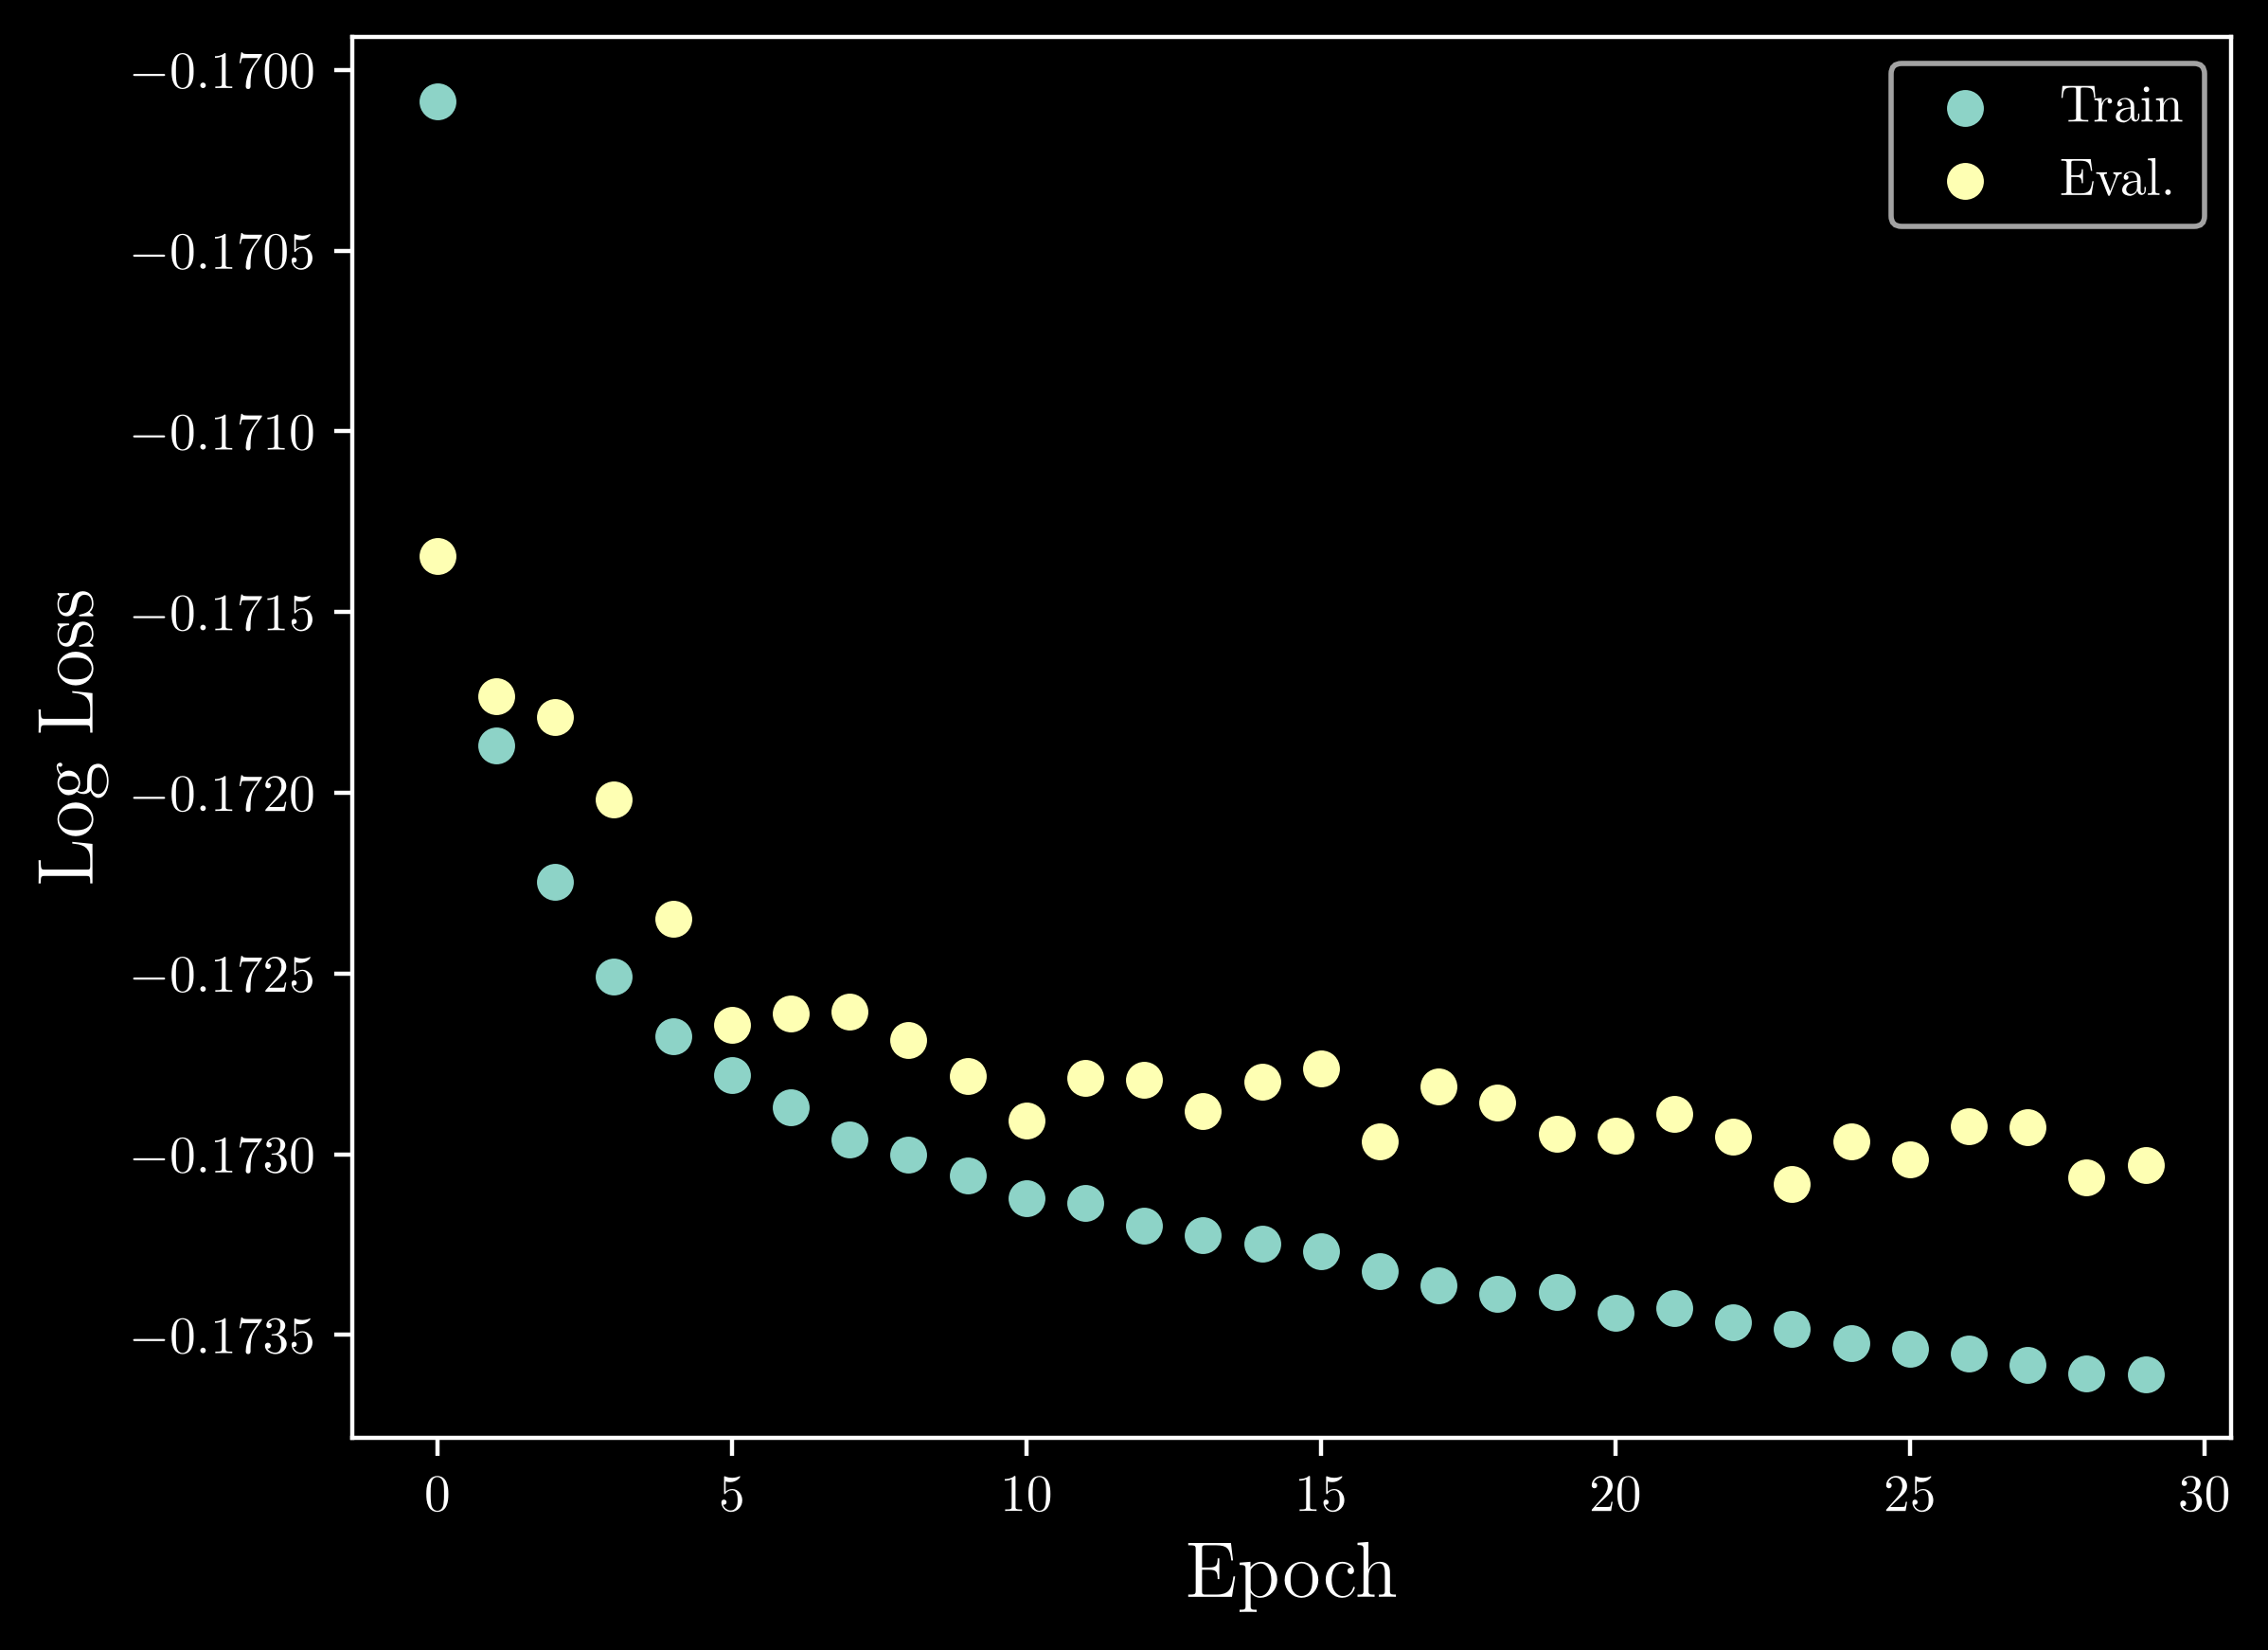
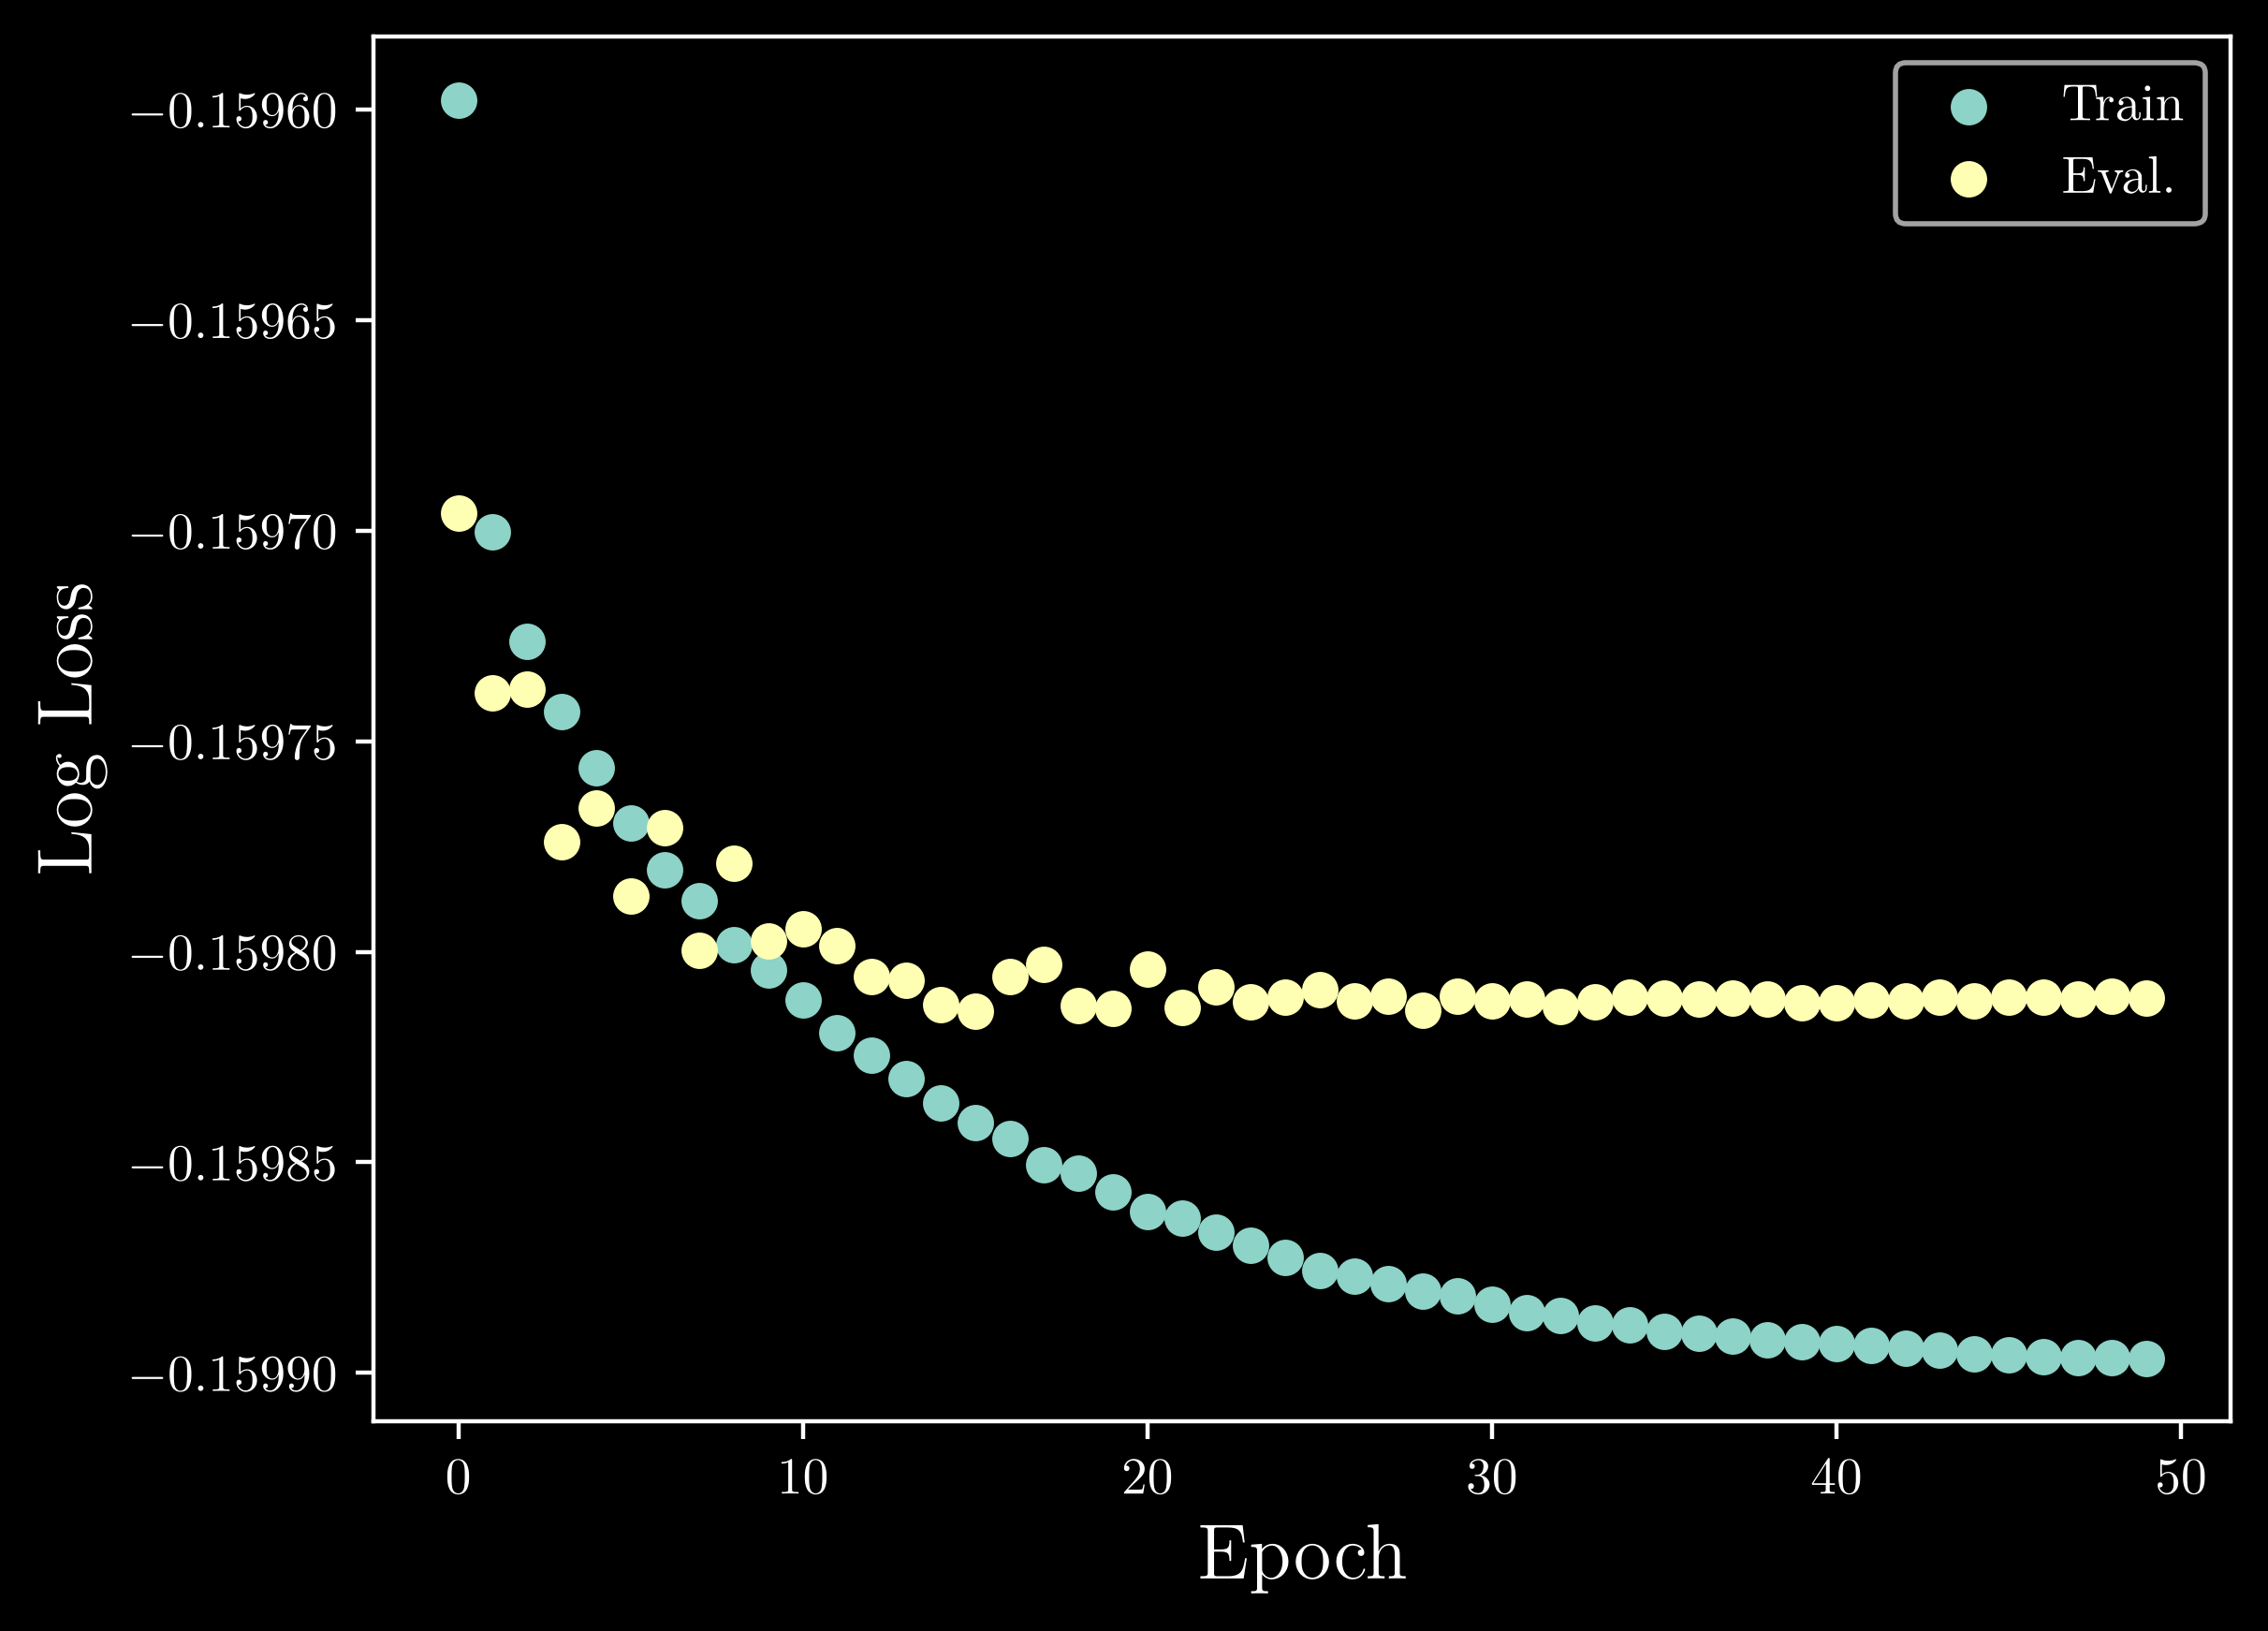
training

diff --git a/expeditions/ratio/helpers/train.py b/expeditions/ratio/helpers/train.py
@@ -2,6 +2,7 @@ from pandas import concat, DataFrame, Series
 from torch import Tensor, zeros, no_grad
 from torch.nn import Module
 from torch.optim import Optimizer
+from torch.optim.lr_scheduler import LRScheduler
 
 from .util import pandas_from_tensor, get_model_device
 from .dataloader import DataLoader
@@ -97,6 +98,7 @@ def _run_training_epoch(
     loss_fn,
     optimizer: Optimizer,
     eval_data_loader: DataLoader | None = None,
+    lr_scheduler: None | LRScheduler = None,
 ) -> DataFrame | Series:
 
     train_loss = _train_epoch(
@@ -108,7 +110,6 @@ def _run_training_epoch(
     train_loss_series = pandas_from_tensor(train_loss, names="train")
 
     run_eval = eval_data_loader is not None
-
     if run_eval:
         eval_loss = _evaluate_epoch(
             eval_data_loader,
@@ -116,13 +117,14 @@ def _run_training_epoch(
             loss_fn,
         )
         eval_loss_series = pandas_from_tensor(eval_loss, names="eval")
-
+    if lr_scheduler is not None: 
+        lr_scheduler.step()
+    
     loss_table = (
         train_loss_series
         if not run_eval
         else concat([train_loss_series, eval_loss_series], axis=1)
     )
-
     return loss_table
 
 
@@ -133,23 +135,20 @@ def run_training(
     optimizer: Optimizer,
     num_epochs: int,
     eval_data_loader: DataLoader | None = None,
+    lr_scheduler: None | LRScheduler = None,
 ) -> DataFrame | Series:
-
     losses = []
-
     for _epoch in range(num_epochs):
-
         epoch_losses = _run_training_epoch(
             train_data_loader=train_data_loader,
             model=model,
             loss_fn=loss_fn,
             optimizer=optimizer,
             eval_data_loader=eval_data_loader,
+            lr_scheduler=lr_scheduler,
         )
         losses.append(epoch_losses)
-
     losses = concat(losses, ignore_index=True)
-
     return losses
 
 
@@ -162,14 +161,12 @@ def run_training_on_datasets(
     num_epochs: int,
     eval_dataset: Dataset | None = None,
     eval_batch_size: int | None = None,
+    lr_scheduler: None | LRScheduler = None
 ) -> DataFrame | Series:
-
     train_data_loader = DataLoader(train_dataset, train_batch_size)
-
     eval_data_loader = (
         DataLoader(eval_dataset, eval_batch_size) if eval_dataset is not None else None
     )
-
     losses = run_training(
         train_data_loader,
         model,
@@ -177,6 +174,6 @@ def run_training_on_datasets(
         optimizer,
         num_epochs,
         eval_data_loader=eval_data_loader,
+        lr_scheduler=lr_scheduler
     )
-
     return losses

diff --git a/expeditions/ratio/test.py b/expeditions/ratio/test.py
@@ -1,6 +1,7 @@
 from torch import linspace
 from torch.nn import BCEWithLogitsLoss
 from torch.optim import AdamW
+from torch.optim.lr_scheduler import CosineAnnealingLR, ExponentialLR
 
 from helpers.data_prep import prep_train_data, prep_eval_data
 from helpers.train import run_training_on_datasets
@@ -34,18 +35,20 @@ def main():
     model = model.to(device)
 
     loss_fn = BCEWithLogitsLoss()
-
-    optimizer = AdamW(model.parameters(), lr=3e-4)
+    optimizer = AdamW(model.parameters(), lr=3e-4, weight_decay=0.001)
+    # lr_scheduler = CosineAnnealingLR(optimizer, 100)
+    lr_scheduler = ExponentialLR(optimizer, 0.9)
 
     losses = run_training_on_datasets(
         train_dataset=train_dataset,
-        train_batch_size=5_000,
+        train_batch_size=10_000,
         model=model,
         loss_fn=loss_fn,
         optimizer=optimizer,
-        num_epochs=30,
+        num_epochs=50,
         eval_dataset=eval_dataset,
-        eval_batch_size=5_000,
+        eval_batch_size=10_000,
+        lr_scheduler=lr_scheduler
     )
 
     plot_to_file(
@@ -56,13 +59,13 @@ def main():
         compute_log=True,
     )
 
-    eval_set_dataset = prep_eval_data("data/val_small.parquet")
+    eval_set_dataset = prep_eval_data("data//val/combo.parquet")
 
-    parameters = linspace(-10, 0, 100)
+    parameters = linspace(-2, 1, 100)
     list_log_probs = []
     list_true_values = []
 
-    for i in (0, 5, 9):
+    for i in (5, 10, 15):
 
         label = eval_set_dataset.labels[i]
         features = eval_set_dataset.features[i]

diff --git a/expeditions/ratio/helpers/data_prep.py b/expeditions/ratio/helpers/data_prep.py
@@ -1,5 +1,6 @@
 from pathlib import Path
 
+from tqdm import tqdm
 from torch import ones, zeros, float32
 from pandas import read_parquet, DataFrame, concat
 from uproot import open
@@ -75,8 +76,12 @@ def remove_unnecessary_files(dir_:str|Path):
 def prep_data_dir(dir_: str | Path):
     remove_unnecessary_files(dir_)    
     root_file_paths = Path(dir_).rglob("*.root")
-    parquet_file_paths = [prep_root_file(path) for path in root_file_paths]
+    parquet_file_paths = [
+        prep_root_file(path) for path in 
+        tqdm(list(root_file_paths), desc="Prepping individual files")
+    ]
     dataframes = [read_parquet(path) for path in parquet_file_paths]
+    print("Combining files...")
     out = concat(dataframes)
     out.to_parquet(Path(dir_).joinpath("combo.parquet"))
 